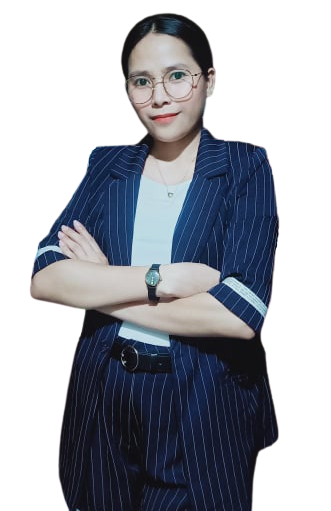
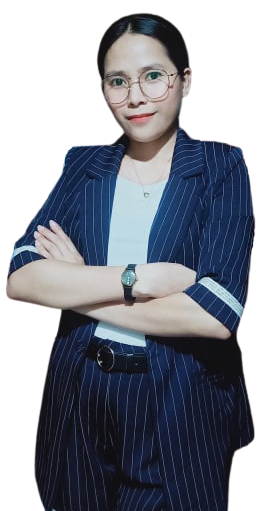
Modified HTML & CSS

diff --git a/FCC-PPW-Assets/FCC-PPW-MainCss/style.css b/FCC-PPW-Assets/FCC-PPW-MainCss/style.css
@@ -14,8 +14,8 @@
 }
 
 /* HOME AREA */
-.home-area, .home-speech-container {
-  width: 100%;
+.home-area {
+  width: auto;
   height: 100vh;
   background: #d6d6d6;
 }
@@ -80,20 +80,24 @@
   color: #ffffff;
 }
 
-.speech-container {
+.home-speech-container {
   width: 100%;
   height: auto;
+  background: #d6d6d6;
+}
+
+.speech-container {
+  width: auto;
+  height: 100vh;
   display: flex;
-  justify-content: center;
+  justify-content: space-evenly;
   align-items: center;
   flex-direction: row;
-  padding-top: 80px;
 }
 
 .speech-body {
   width: 50%;
-  height: auto;
-  height: auto;
+  height: 100vh;
   display: flex;
   justify-content: center;
   align-items: flex-start;
@@ -129,22 +133,24 @@
 }
 
 .speech-img-container {
-  width: 30%;
-  height: auto;
+  width: 25%;
+  height: 100vh;
+  position: relative;
+  bottom: 0;
 }
 
 .speech-img {
-  width: 100%;
-  display: block;
-  margin-left: auto;
-  margin-right: auto;
+  width: auto;
+  height: 91vh;
+  position: absolute;
+  bottom: 0;
 }
 
 /* HOME AREA MEDIA QUERY */
 @media screen and (max-width: 700px) {
-  
-  .home-area, .home-speech-container {
-    height: auto;
+
+  .home-area {
+    height: 50vh;
   }
 
   .head-logo {
@@ -180,8 +186,25 @@
     font-size: 0.7em;
   }
 
+  .speech-container {
+    justify-content: center;
+    height: 50vh;
+  }
+  
+  .speech-body {
+    height: 50vh;
+  }
+
   .speech-img-container {
     width: 40%;
+    height: 50vh;
+    bottom: 10px;
+    padding-left: 10px;
+  }
+
+  .speech-img {
+    height: 42vh;
+    bottom: 10px;
   }
 }
 
